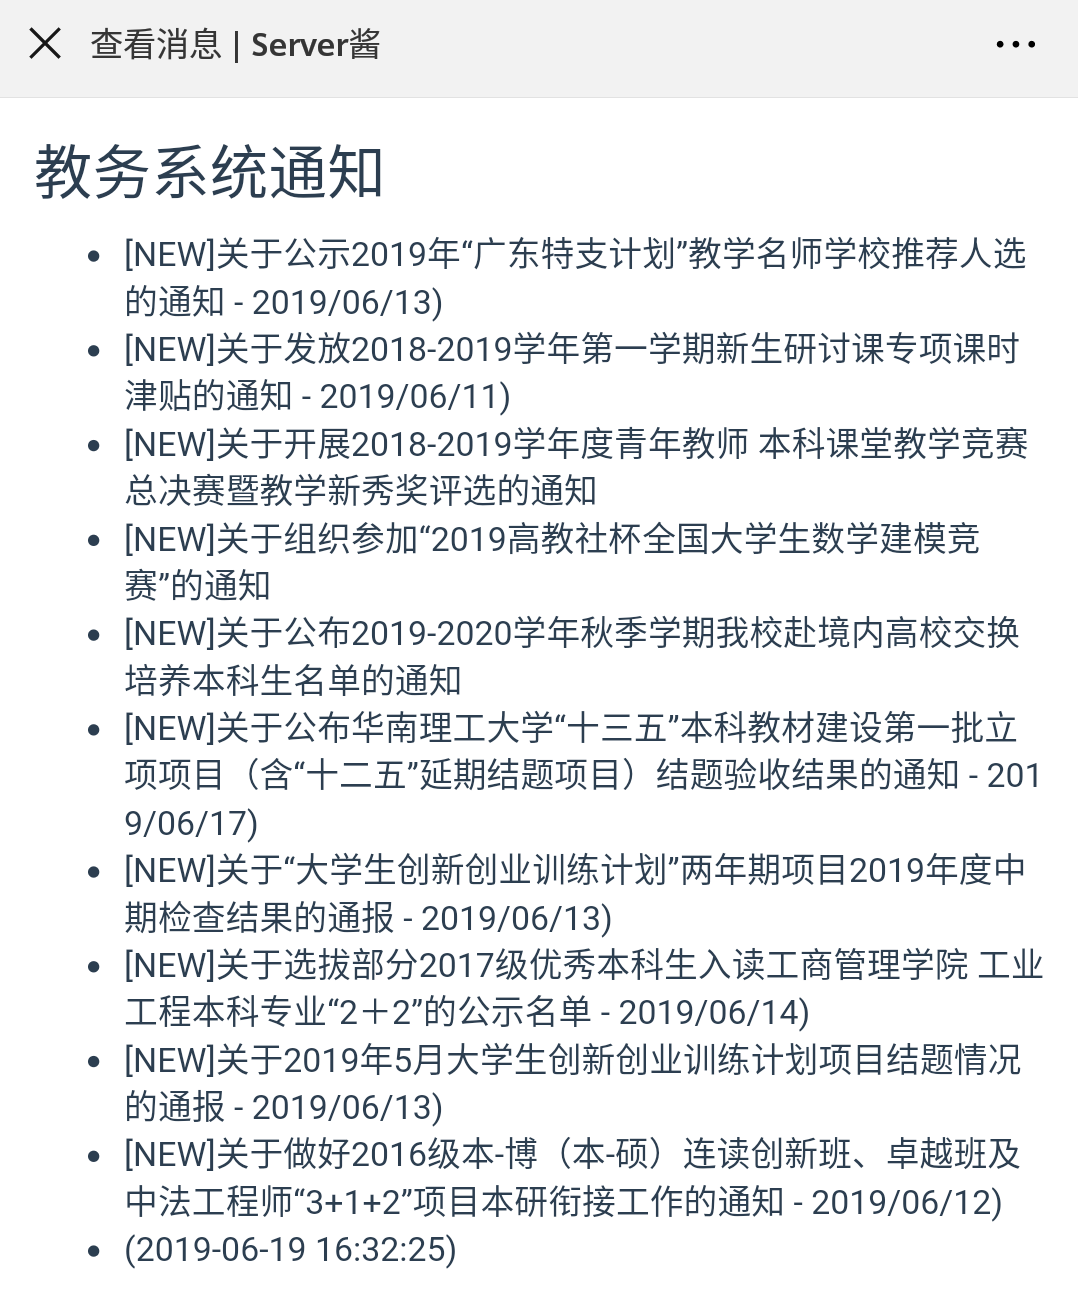
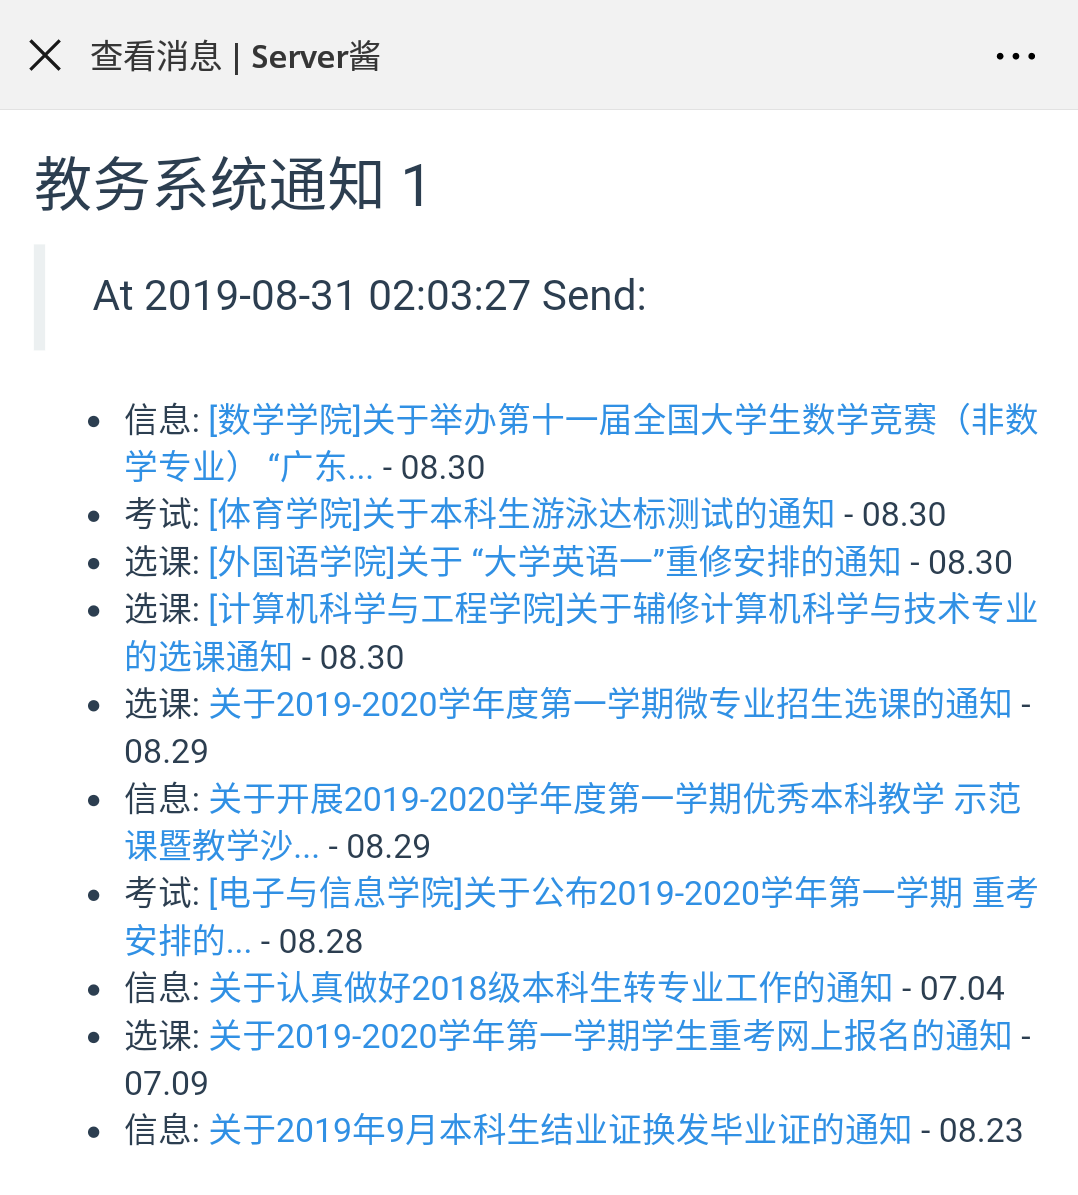
Remove Set & Add ToArrayDifference

diff --git a/app.go b/app.go
@@ -8,7 +8,6 @@ import (
 
 	"github.com/Aoi-hosizora/Academic_Notifier/models"
 	"github.com/Aoi-hosizora/Academic_Notifier/utils"
-	"gopkg.in/fatih/set.v0"
 )
 
 // 访问教务通知频率
@@ -44,24 +43,26 @@ func main() {
 
 // 获取教务通知，判断更新
 func grabNotice(url string, SCKEY string) {
-	newSet := set.New(set.ThreadSafe)
-
+	newSet := make([]models.NoticeItem, SendMaxCnt)
 	for {
-		notices := utils.ToSetOfNew(utils.ParseJson(utils.GetPostData(url, 0, 65)))
-		diffs := set.Difference(notices, newSet)
-		size := diffs.Size()
-		for i := 0; i < int(math.Ceil(float64(size)/float64(SendMaxCnt))); i++ {
+		notices := utils.ParseJson(utils.GetPostData(url, 0, 50))
+		diffs := utils.ToArrayDifference(notices, newSet)
+		for i := 0; i < int(math.Ceil(float64(len(diffs))/float64(SendMaxCnt))); i++ {
 			msg := ""
 			for j := i * SendMaxCnt; j < i*SendMaxCnt+SendMaxCnt; j++ {
-				if j >= size {
+				if j < len(diffs) {
+					ni := diffs[j]
+					if ni == nil {
+						break
+					}
+					fmt.Println(ni.String())
+					msg = msg + fmt.Sprintln(ni.String())
+				} else {
 					break
 				}
-				ni := diffs.Pop().(models.NoticeItem)
-				fmt.Println(ni.String())
-				msg = msg + fmt.Sprintln(ni.String())
 			}
 			if msg != "" {
-				utils.SendNotifier(SCKEY, "教务系统通知", msg)
+				utils.SendNotifier(SCKEY, fmt.Sprintf("教务系统通知 %d", i+1), msg)
 				fmt.Println(msg)
 			}
 		}

diff --git a/utils/netUtil.go b/utils/netUtil.go
@@ -11,7 +11,6 @@ import (
 	"strings"
 
 	"github.com/Aoi-hosizora/Academic_Notifier/models"
-	"gopkg.in/fatih/set.v0"
 )
 
 // Server Chan Url: `Sckey` `title` `msg`
@@ -24,7 +23,7 @@ var JWViewUrl string = "http://jw.scut.edu.cn/zhinan/cms/article/view.do?type=po
 func SendNotifier(Sckey string, title string, msg string) {
 
 	// 将发送内容加上时间
-	msg = fmt.Sprintf("> At %s Send: \n %s", GetNowTimeString(), msg)
+	msg = fmt.Sprintf("> At %s Send: \n\n%s", GetNowTimeString(), msg)
 
 	// url.QueryEscape 转化 url
 	url := fmt.Sprintf(ServerChanUrl, Sckey, url.QueryEscape(title), url.QueryEscape(msg))
@@ -101,15 +100,25 @@ func ParseJson(Json string) []models.NoticeItem {
 	return l
 }
 
-// [] -> list
-func ToSetOfNew(ns []models.NoticeItem) set.Interface {
-	s := set.New(set.ThreadSafe)
-	for i := 0; i < len(ns); i++ {
-		if ns[i].IsNew {
-			s.Add(ns[i])
+// [is / isnot new] - [old]
+func ToArrayDifference(new []models.NoticeItem, old []models.NoticeItem) []*models.NoticeItem {
+	diff := make([]*models.NoticeItem, len(new))
+	num := 0
+	for i := 0; i < len(new); i++ {
+		if new[i].IsNew {
+			has := false
+			for _, v := range old {
+				if v.Title == new[i].Title {
+					has = true
+				}
+			}
+			if !has {
+				diff[num] = &new[i]
+				num += 1
+			}
 		}
 	}
-	return s
+	return diff
 }
 
 // Api tag -> Type str

diff --git a/models/noticeItem.go b/models/noticeItem.go
@@ -2,8 +2,6 @@ package models
 
 import (
 	"fmt"
-	"strconv"
-	"strings"
 )
 
 type NoticeItem struct {
@@ -15,29 +13,5 @@ type NoticeItem struct {
 }
 
 func (i *NoticeItem) String() string {
-	// isNew := ""
-	// if i.IsNew {
-	// 	isNew = "[New] "
-	// }
-	// return fmt.Sprintf("%s%s: [%s](%s) - %s)", isNew, i.Type, i.Title, i.Url, i.Date)
-	return fmt.Sprintf("+ %s: [%s](%s) - %s", i.Type, i.Title, i.Url, i.Date)
-}
-
-type NoticeItems []NoticeItem
-
-func (n NoticeItems) Len() int {
-	return len(n)
-}
-
-func (n NoticeItems) Less(i, j int) bool {
-	n1, err1 := strconv.Atoi(strings.Replace(n[i].Date, ".", "", -1))
-	n2, err2 := strconv.Atoi(strings.Replace(n[j].Date, ".", "", -1))
-	if err1 != nil || err2 != nil {
-		return false
-	}
-	return n1 > n2
-}
-
-func (n NoticeItems) Swap(i, j int) {
-	n[i], n[j] = n[j], n[i]
+	return fmt.Sprintf("+ %s: [%s](\"%s\") - %s", i.Type, i.Title, i.Url, i.Date)
 }

diff --git a/readme.md b/readme.md
@@ -1,14 +1,11 @@
-# Academic_Notifier
-+ RT the news in SCUT Academic Notice
+# SCUT_Academic_Notifier
++ RT the notices in SCUT Academic Notice
++ [SCUT office of Academic Affairs](http://jw.scut.edu.cn/zhinan/cms/index.do)
 
 ### Environment
 + go 1.11.5 windows/amd64
-
-+ Requirement: 
-	+ [goquery](https://github.com/PuerkitoBio/goquery)
-	+ [set.v0](https://gopkg.in/fatih/set.v0)
-
-+ Notifier: [Server酱](http://sc.ftqq.com/3.version)
++ Notifier: [ServerChan](http://sc.ftqq.com/3.version)
++ Requirement: None
 
 ### Setup
 ```json
@@ -22,9 +19,21 @@
 ```bash
 # Setup config.json
 
-# All package main
-go run *.go
+go run app.go
 ```
+
+### Tips
++ One RT will only contain 10 notices.
+```go
+// 一次发送的最大量
+var SendMaxCnt int = 10
+for i := 0; i < int(math.Ceil(float64(len(diffs))/float64(SendMaxCnt))); i++ {
+    // ...
+}
+```
+> text：消息标题，最长为256，必填。
+> 
+> desp：消息内容，最长64Kb，可空，支持MarkDown。
 
 ### Screenshot
 ![Screenshot](./assets/Screenshot.png)
